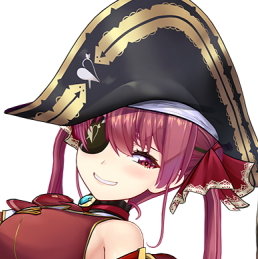
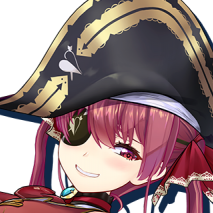
cropped portraits and fixed html

diff --git a/selectScreen.js b/selectScreen.js
@@ -9,9 +9,9 @@ let bgm = document.querySelector('#bgm');
 bgm.loop = true;
 let currentPlayer = 1;
 
-let fighters = [{name: 'Tokino Sora', portrait: 'images/fighters/portraits/Tokino Sora Portrait.png', full: 'images/fighters/fullBody/Tokino-Sora-Full.png'}, 
-{name: 'Usada Pekora', portrait: 'images/fighters/portraits/Usada Pekora Portrait.png', full: 'images/fighters/fullBody/Usada-Pekora-Full.png'},
-{name: 'Shishiro Botan', portrait: 'images/fighters/portraits/Shishiro Botan Portrait.png', full: 'images/fighters/fullBody/Shishiro-Botan-Full.png'},
+let fighters = [{name: 'Tokino Sora', portrait: 'images/fighters/portraits/Tokino-Sora-Portrait.png', full: 'images/fighters/fullBody/Tokino-Sora-Full.png'}, 
+{name: 'Usada Pekora', portrait: 'images/fighters/portraits/Usada-Pekora-Portrait.png', full: 'images/fighters/fullBody/Usada-Pekora-Full.png'},
+{name: 'Shishiro Botan', portrait: 'images/fighters/portraits/Shishiro-Botan-Portrait.png', full: 'images/fighters/fullBody/Shishiro-Botan-Full.png'},
 {name: 'Houshou Marine', portrait: 'images/fighters/portraits/Houshou-Marine-Portrait.png', full: 'images/fighters/fullBody/Houshou-Marine-Full.png'},
 {name: 'Inugami Korone', portrait: 'images/fighters/portraits/Inugami-Korone-Portrait.png', full: 'images/fighters/fullBody/Inugami-Korone-Full.png'},
 {name: 'Shirakami Fubuki', portrait: 'images/fighters/portraits/Shirakami-Fubuki-Portrait.png', full: 'images/fighters/fullBody/Shirakami-Fubuki-Full.png'},
@@ -73,6 +73,41 @@ const overlayInput = (event) =>{
     }
     // an alert for an input that isn't any of the above is unneccesarry    
 }
+const randomFighter = () => {
+    let img = document.createElement('img');
+    img.setAttribute('src', 'images/fighters/portraits/Random.png');
+    img.classList.add('fighterIcon');
+    img.classList.add('randomButton');
+    img.addEventListener('click', function(){
+        let pick = random();
+        selectFighter(fighters[pick], pick);
+        // instead of trying to get record of the dom element, just use "this"
+        if (this.classList.contains('player1selected')){ // check if this icon has this class
+            this.classList.remove('player1selected');
+        } else if (this.classList.contains('player2selected')){
+            this.classList.remove('player2selected');
+        }
+    });
+    img.addEventListener('mouseover', function(){
+        if (currentPlayer === 1){
+            img.classList.add('player1selected');
+            display1[1].innerText = 'Random';
+            display1[2].src = '';
+        } else if (currentPlayer === 2) {
+            img.classList.add('player2selected');
+            display2[1].innerText = 'Random';
+            display2[2].src = '';
+        }
+    });
+    img.addEventListener('mouseout', function(){
+        if (currentPlayer === 1){
+            img.classList.remove('player1selected');
+        } else if (currentPlayer === 2){
+            img.classList.remove('player2selected')
+        }
+    });
+    selectScreen.appendChild(img);
+}
 const previewFighter = (item) => {
     if (currentPlayer === 1){
         let fighterImg = display1[2];
@@ -96,7 +131,7 @@ const selectFighter = (elem, iconNumber) => {
     } else if (currentPlayer === 2){
         playerIcon.classList.add('player2selected');
         populateDisplay(display2[2], elem, display2[1]);
-        currentPlayer = null; // this prevents the script from removing the player2selected class
+        currentPlayer = null; // this prevents the script from removing the player2selected class unexpectedly
         clearInterval(clock);
         readyPrompt();
     }
@@ -127,10 +162,11 @@ const displayScreen = () => {
             } else if (currentPlayer === 2){
                 img.classList.remove('player2selected')
             }
-        })
+        });
         selectScreen.appendChild(img);
     }
-    // let randomImg = document.createElement('img');
+    
+    randomFighter();
     selectTimer();
 }
 const readyPrompt = () => {

diff --git a/selectScreen.css b/selectScreen.css
@@ -13,7 +13,6 @@
 body {
     background-image: url(images/Background.png);
     background-repeat: no-repeat;
-    /* height: 100vh; */
     margin: 0;
 }
 .getStarted {
@@ -48,7 +47,10 @@ body {
 #selectScreen {
     align-self: center;
     background-color: rgba(0, 0, 0, .5);
+    display: grid;
     flex: 4;
+    grid-template-columns: repeat(4, 1fr);
+    grid-template-rows: repeat(5, 1fr);
     order: 1;
     text-align: center;
     z-index: 1;
@@ -73,7 +75,7 @@ body {
     margin: 0 auto;
     padding: 5px 5px;
     text-align: center;
-    width: 80%;
+    width: 90%;
     z-index: 1;
 }
 .fighterName h1{
@@ -95,6 +97,11 @@ body {
     height: 70px;
     margin: 10px;
 }
+.randomButton {
+    display: block;
+    margin: 10px auto;
+    grid-column: span 2/4;
+}
 .player1selected {
     border: 5px solid rgb(107, 220, 255);
 }
@@ -105,7 +112,7 @@ body {
     bottom: 20px;
     display: block;
     margin: 0 auto;
-    max-height: 84vh;
+    max-height: 100%;
     position: relative;
 }
 .preview {

diff --git a/holoFighters.html b/holoFighters.html
@@ -17,7 +17,9 @@
             <img id="select1" class="upperFighter">
         </div>
         <div id="player2" class="fighter">
-            <h1 id="fighter2" class="fighterName"></h1>
+            <div class="fighterName">
+                <h1 id="fighter2"></h1>
+            </div>
             <img id="select2" class="upperFighter">
         </div>
         <div id="selectScreen"></div>
